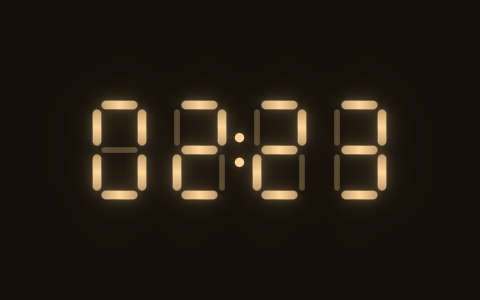
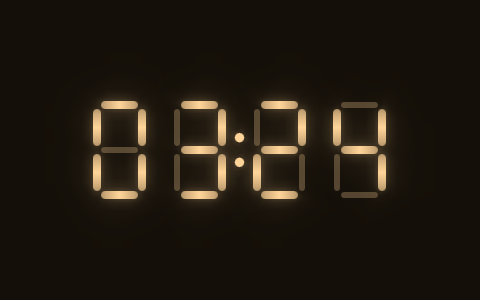
W57: snap segment stroke (even) and gap to the device grid; glyph mirrors exact, located asymmetries 30 -> 6 (face/mount next)
Template-parity baseline for SegmentChar re-recorded: the diff is exactly the snap.

post-commit advisory (auto-captured):
    ── post-commit advisory (non-blocking; gates ran pre-commit) ──
      Δ adequacy: not run per commit — run it as a capped service:
      PAPERKIT_SCRATCH=/var/tmp/paperkit-sweep python3 scripts/worklist_gate.py --discriminate
    opa_gate: partial: admitted — 0 deny, 0 withheld, 8 admitted

diff --git a/catalog/baselines/SegmentChar.qml b/catalog/baselines/SegmentChar.qml
@@ -168,11 +168,18 @@ Item {
         property bool lit: false          // true only for the halo/crisp LIT instances; ghost stays flat
         property var g: sc.segGeom[seg]          // [kind, ux, uy]
         property bool horiz: g[0] === "h"
-        property real gap: sc.segThick * 0.62
+        // ⚑ SNAPPED TO THE DEVICE GRID (W57, 2026-10-01). check_symmetry located the
+        // corners one pixel off their own mirror (x 47-51 where 46-50 mirrors 9-13):
+        // a fractional stroke and gap left each rectangle to the scene graph's own
+        // rounding. A horizontal's centre (segLen/2) sits midway between the two
+        // verticals only when the stroke is an EVEN integer and the gap an integer,
+        // so both are snapped here; the substrate's ratios stay the target.
+        property real t: 2 * Math.max(1, Math.round(thick / 2))
+        property real gap: Math.round(sc.segThick * 0.62)
         antialiasing: true
-        radius: thick / 2
-        width:  horiz ? sc.segLen - gap * 2 : thick
-        height: horiz ? thick : sc.segLen - gap * 2
+        radius: t / 2
+        width:  horiz ? sc.segLen - gap * 2 : t
+        height: horiz ? t : sc.segLen - gap * 2
         // ⊕STROKE-GRADIENT: see sc.litGradient's doc for why centre-fed, not
         // edge-fed. Ghost segments never gradient (⊕BLOOM's rule extended: an
         // un-energised segment has no light guide to be fed unevenly).
@@ -192,7 +199,7 @@ Item {
         // stroke outside it, and the middle bar hung below the cell's midline.
         // check_symmetry located all six regions of it; centring on the line is
         // the one fix, and it makes the glyph its own mirror by construction.
-        x: (g[1] * sc.segLen) + (horiz ? gap : -thick / 2)
-        y: (g[2] * sc.segLen) + (horiz ? -thick / 2 : gap)
+        x: (g[1] * sc.segLen) + (horiz ? gap : -t / 2)
+        y: (g[2] * sc.segLen) + (horiz ? -t / 2 : gap)
     }
 }

diff --git a/plasma-clock/org.el.segclock/contents/ui/SegmentChar.qml b/plasma-clock/org.el.segclock/contents/ui/SegmentChar.qml
@@ -168,11 +168,18 @@ Item {
         property bool lit: false          // true only for the halo/crisp LIT instances; ghost stays flat
         property var g: sc.segGeom[seg]          // [kind, ux, uy]
         property bool horiz: g[0] === "h"
-        property real gap: sc.segThick * 0.62
+        // ⚑ SNAPPED TO THE DEVICE GRID (W57, 2026-10-01). check_symmetry located the
+        // corners one pixel off their own mirror (x 47-51 where 46-50 mirrors 9-13):
+        // a fractional stroke and gap left each rectangle to the scene graph's own
+        // rounding. A horizontal's centre (segLen/2) sits midway between the two
+        // verticals only when the stroke is an EVEN integer and the gap an integer,
+        // so both are snapped here; the substrate's ratios stay the target.
+        property real t: 2 * Math.max(1, Math.round(thick / 2))
+        property real gap: Math.round(sc.segThick * 0.62)
         antialiasing: true
-        radius: thick / 2
-        width:  horiz ? sc.segLen - gap * 2 : thick
-        height: horiz ? thick : sc.segLen - gap * 2
+        radius: t / 2
+        width:  horiz ? sc.segLen - gap * 2 : t
+        height: horiz ? t : sc.segLen - gap * 2
         // ⊕STROKE-GRADIENT: see sc.litGradient's doc for why centre-fed, not
         // edge-fed. Ghost segments never gradient (⊕BLOOM's rule extended: an
         // un-energised segment has no light guide to be fed unevenly).
@@ -192,7 +199,7 @@ Item {
         // stroke outside it, and the middle bar hung below the cell's midline.
         // check_symmetry located all six regions of it; centring on the line is
         // the one fix, and it makes the glyph its own mirror by construction.
-        x: (g[1] * sc.segLen) + (horiz ? gap : -thick / 2)
-        y: (g[2] * sc.segLen) + (horiz ? -thick / 2 : gap)
+        x: (g[1] * sc.segLen) + (horiz ? gap : -t / 2)
+        y: (g[2] * sc.segLen) + (horiz ? -t / 2 : gap)
     }
 }

diff --git a/templates/SegmentChar.qml b/templates/SegmentChar.qml
@@ -168,11 +168,18 @@ Item {
         property bool lit: false          // true only for the halo/crisp LIT instances; ghost stays flat
         property var g: sc.segGeom[seg]          // [kind, ux, uy]
         property bool horiz: g[0] === "h"
-        property real gap: sc.segThick * 0.62
+        // ⚑ SNAPPED TO THE DEVICE GRID (W57, 2026-10-01). check_symmetry located the
+        // corners one pixel off their own mirror (x 47-51 where 46-50 mirrors 9-13):
+        // a fractional stroke and gap left each rectangle to the scene graph's own
+        // rounding. A horizontal's centre (segLen/2) sits midway between the two
+        // verticals only when the stroke is an EVEN integer and the gap an integer,
+        // so both are snapped here; the substrate's ratios stay the target.
+        property real t: 2 * Math.max(1, Math.round(thick / 2))
+        property real gap: Math.round(sc.segThick * 0.62)
         antialiasing: true
-        radius: thick / 2
-        width:  horiz ? sc.segLen - gap * 2 : thick
-        height: horiz ? thick : sc.segLen - gap * 2
+        radius: t / 2
+        width:  horiz ? sc.segLen - gap * 2 : t
+        height: horiz ? t : sc.segLen - gap * 2
         // ⊕STROKE-GRADIENT: see sc.litGradient's doc for why centre-fed, not
         // edge-fed. Ghost segments never gradient (⊕BLOOM's rule extended: an
         // un-energised segment has no light guide to be fed unevenly).
@@ -192,7 +199,7 @@ Item {
         // stroke outside it, and the middle bar hung below the cell's midline.
         // check_symmetry located all six regions of it; centring on the line is
         // the one fix, and it makes the glyph its own mirror by construction.
-        x: (g[1] * sc.segLen) + (horiz ? gap : -thick / 2)
-        y: (g[2] * sc.segLen) + (horiz ? -thick / 2 : gap)
+        x: (g[1] * sc.segLen) + (horiz ? gap : -t / 2)
+        y: (g[2] * sc.segLen) + (horiz ? -t / 2 : gap)
     }
 }
